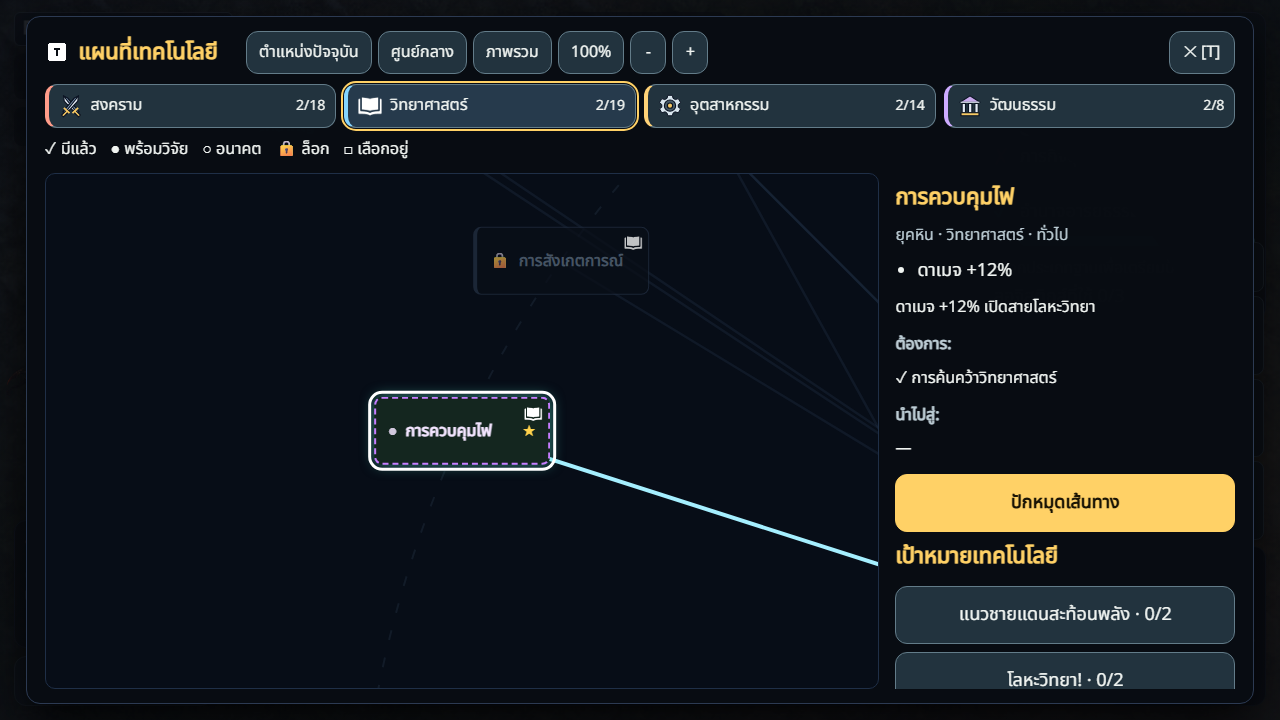
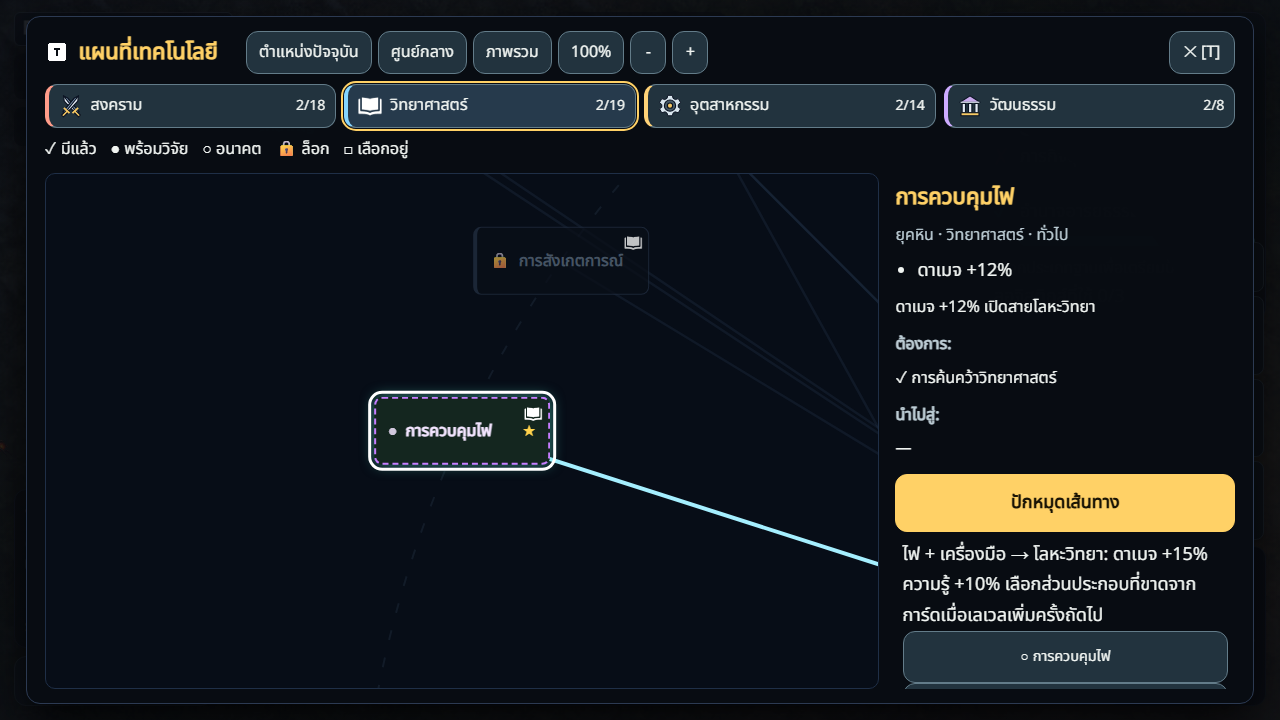
ui: keep active combination guidance outside build disclosure

Changed region(s): [[0.6875, 0.7333, 0.9688, 0.9778]]

diff --git a/src/game/tech/TechMapView.ts b/src/game/tech/TechMapView.ts
@@ -744,16 +744,6 @@ export class TechMapView {
       this.sideEl.appendChild(pinBtn);
     }
 
-    const goalsTitle = document.createElement("h3"); goalsTitle.textContent = t("path.goal"); this.sideEl.appendChild(goalsTitle);
-    for (const b of BREAKTHROUGHS) {
-      const g = this.sim.pathGuidance(b.id);
-      const goalBtn = document.createElement("button"); goalBtn.className = "btn techmap-combo-goal techmap-no-pan"; goalBtn.dataset.comboId = b.id;
-      goalBtn.textContent = `${t(b.titleKey)} · ${g.have}/${g.need}${s.pinnedTarget === b.id ? " ✓" : ""}`;
-      goalBtn.addEventListener("click", () => this.triggerPin(s.pinnedTarget === b.id ? "" : b.id)); this.sideEl.appendChild(goalBtn);
-    }
-
-    const secondary=document.createElement('details');secondary.className='techmap-secondary';const summary=document.createElement('summary');summary.textContent=t('ui.ownedBuild');secondary.append(summary);
-    const mainSide=this.sideEl;this.sideEl=secondary;
     const route = this.sim.combinationRoute();
     if (!route.complete) {
       const recipe = document.createElement("div"); recipe.className = "combination-route";
@@ -767,6 +757,17 @@ export class TechMapView {
       }
       this.sideEl.appendChild(recipe);
     }
+
+    const goalsTitle = document.createElement("h3"); goalsTitle.textContent = t("path.goal"); this.sideEl.appendChild(goalsTitle);
+    for (const b of BREAKTHROUGHS) {
+      const g = this.sim.pathGuidance(b.id);
+      const goalBtn = document.createElement("button"); goalBtn.className = "btn techmap-combo-goal techmap-no-pan"; goalBtn.dataset.comboId = b.id;
+      goalBtn.textContent = `${t(b.titleKey)} · ${g.have}/${g.need}${s.pinnedTarget === b.id ? " ✓" : ""}`;
+      goalBtn.addEventListener("click", () => this.triggerPin(s.pinnedTarget === b.id ? "" : b.id)); this.sideEl.appendChild(goalBtn);
+    }
+
+    const secondary=document.createElement('details');secondary.className='techmap-secondary';const summary=document.createElement('summary');summary.textContent=t('ui.ownedBuild');secondary.append(summary);
+    const mainSide=this.sideEl;this.sideEl=secondary;
     const origin = ORIGINS.find((o) => o.id === s.originId);
     const ob = document.createElement("div");
     ob.className = "techmap-req";

diff --git a/docs/TECH_CLARITY_OWNER_PACKET.md b/docs/TECH_CLARITY_OWNER_PACKET.md
@@ -40,3 +40,9 @@ FACT: npm run check passed680/680 in135files, typecheck/asset provenance/build i
 [Verification JSON](evidence/tech-clarity/verification.json). Screenshots are staged E2E UI evidence, not owner-playtest/performance evidence: [before cards](evidence/tech-clarity/before-cards-th720.png), [TH720 cards](evidence/tech-clarity/cards-th720.png), [before tree](evidence/tech-clarity/before-tree-th720.png), [TH720 tree](evidence/tech-clarity/tree-th720.png), [EN200 controls](evidence/tech-clarity/cards-en200.png), [EN200 tree](evidence/tech-clarity/tree-en200.png). At200%, deliberate whole-page scrolling keeps large text and decision controls reachable; the controls screenshot shows the lower viewport after focus returns from Details.
 
 Gate A local engineering checks PASS; exact-source CI and owner clarity acceptance remain separate. Gate B remains DEFERRED_WITH_REASON. Scores stay2/5;45items are not blanket-closed. No source-art/native60Hz/fun/release acceptance.
+
+## Final compatibility correction
+
+The inherited combinationRecovery browser test exposed a genuine0d708db regression: the active, incomplete combination mission route was inside the collapsed Build disclosure. Existing EN assertion was RED (hidden). The active recipe is now outside the optional owned-build section, before the goal list. Existing recipe assertions were not relaxed; EN/TH mission→map→two actual recipe picks pass, plus TH720/EN720/EN200map/card smoke:5/5GREEN. Final typecheck and build pass. This is a DOM-order recovery, not a mission-rule or balance change. Tree screenshots refreshed after this fix; card code/screenshots are unchanged.
+
+Intermediate18f9d17Push43018168057/PR43018229905CI runs were cancelled as superseded while correcting this evidenced regression, to avoid wasting full browser/render cohorts. They are not claimed as final passes. Final mandatory checks belong to the new exact source; see latest PR45 receipt. No additional local full-suite/policy repeat for this sidebar-only correction.

diff --git a/SESSION_HANDOFF.md b/SESSION_HANDOFF.md
@@ -1,3 +1,7 @@
+# V6 active-route compatibility - final candidate
+
+Recovered UI keeps the active incomplete combination recipe outside optional Build details. Existing mission-to-map test RED then EN/TH real recipe picks GREEN; final typecheck/build and5targeted browser cases pass. Earlier680unit/full-check,22map/weapons/save and13viewport/alignment results are preserved with source scope in docs/TECH_CLARITY_OWNER_PACKET.md. Intermediate18f9CI was superseded; final exact-source PR45 receipt governs acceptance. No canonical/version change. Owner ratings remain2/5. Preserve private content below.
+
 # V6 UI recovery receipt - 2026-11-11
 
 Recovered0d708db intact above73c67ea. Local check680/680PASS; semantic art + sidebar map/weapons/save22/22PASS; final CSS row regression and viewport matrix13/13PASS after build. Final exact-source CI is in the single child Draft PR receipt. Human Combat/Upgrade/Replay2/5 remains NOT_ACCEPTED. GateB deferred: existing hit feedback is present; no specific safe combat defect identified. No core/content/save/policy/version changes. Public packet: docs/TECH_CLARITY_OWNER_PACKET.md. Preserve private owner content below.
